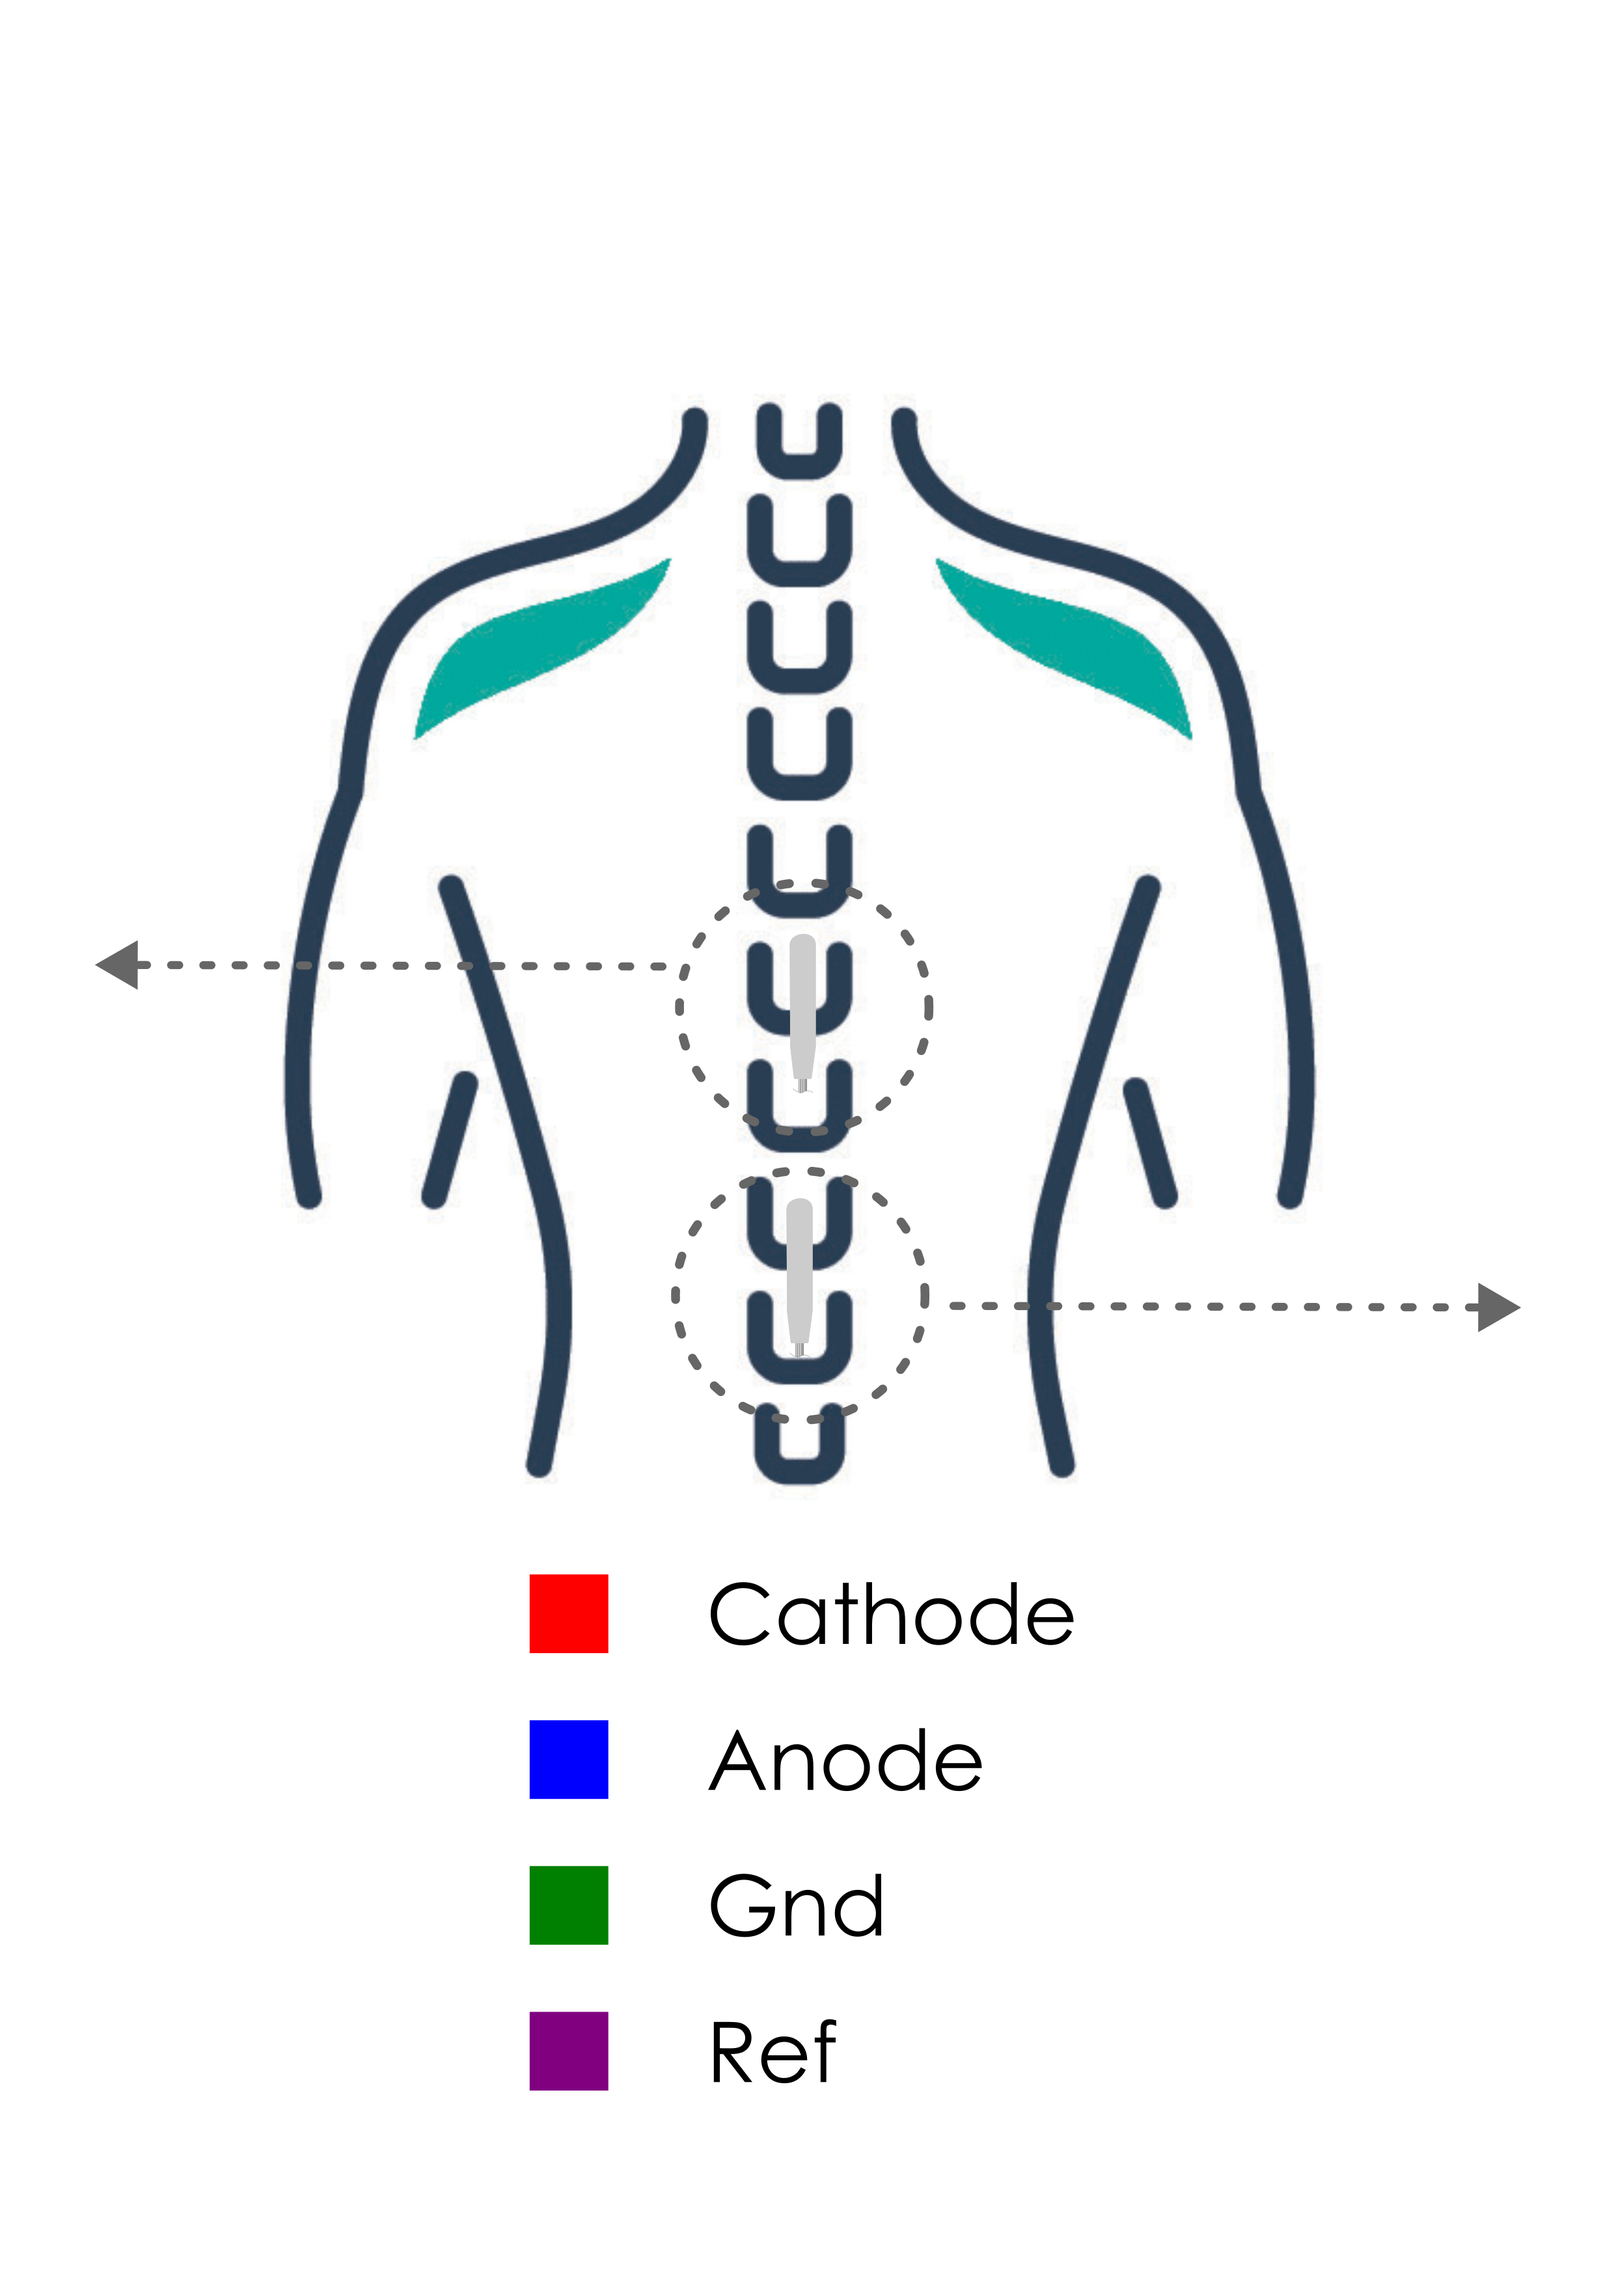
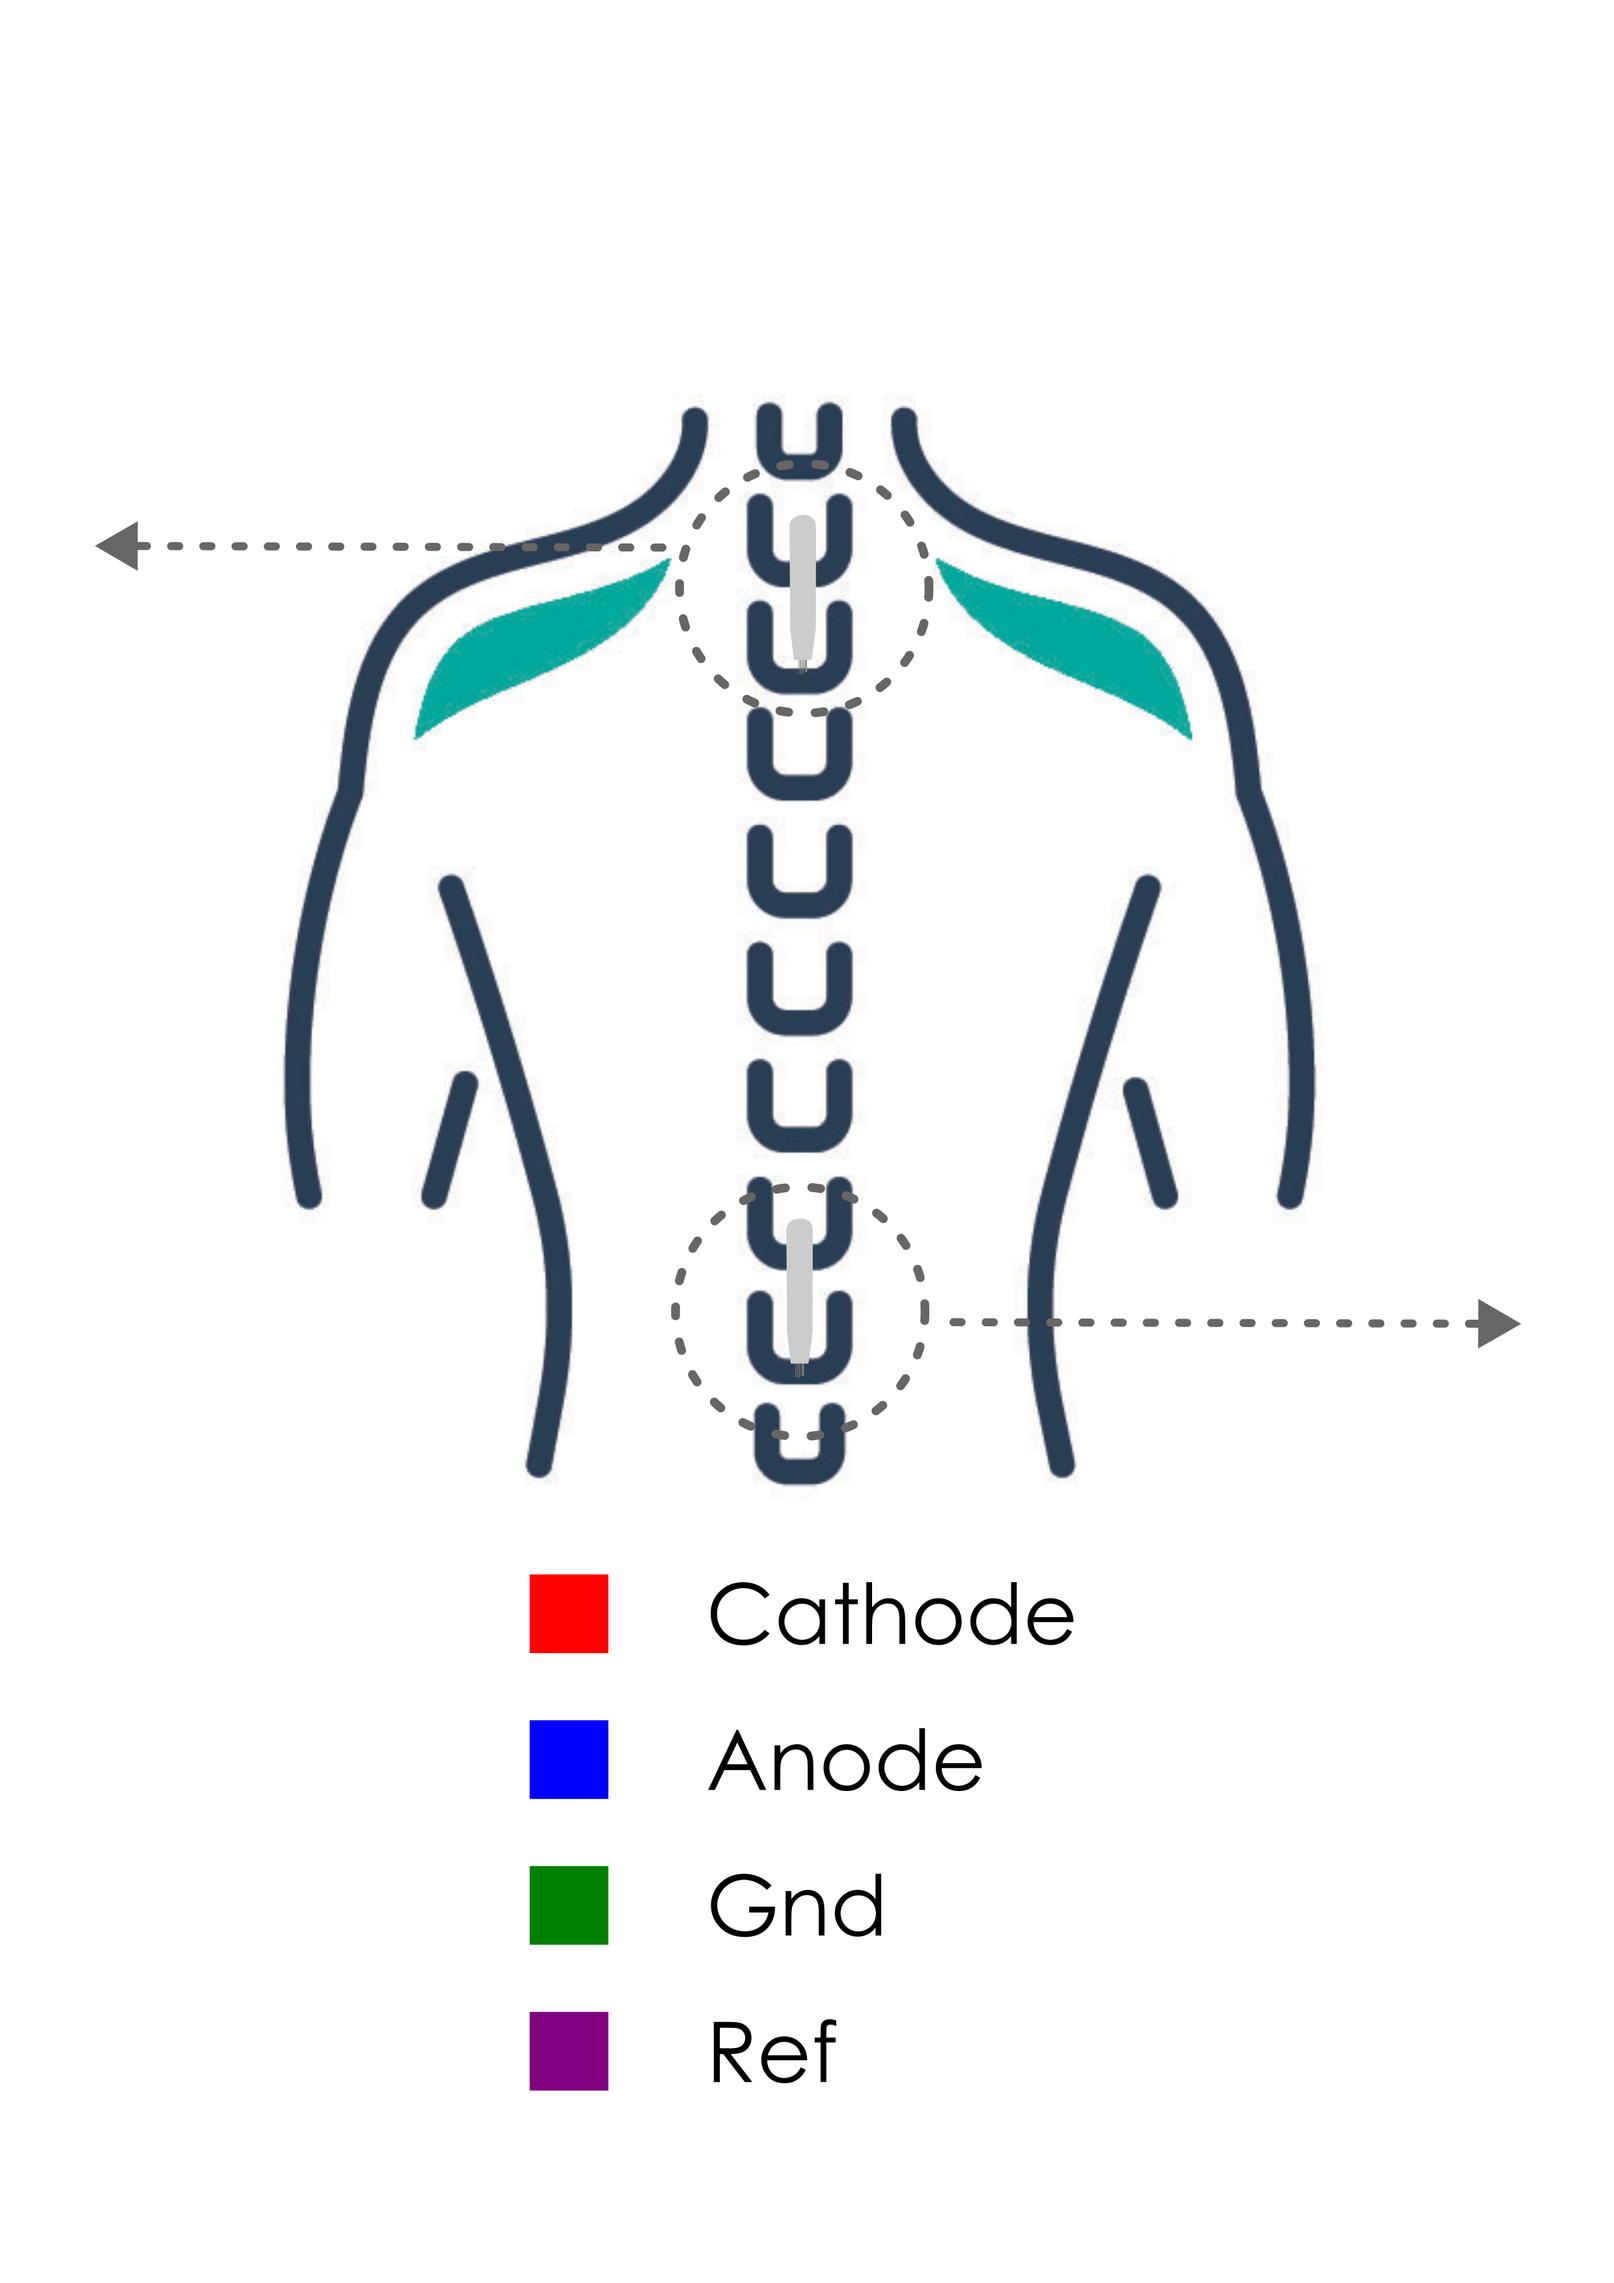
exported conda environment, merged my codebase with the logger

diff --git a/ISI_Dashboard_Dash/app.py b/ISI_Dashboard_Dash/app.py
@@ -76,8 +76,8 @@ app = DashProxy(external_stylesheets=[dbc.themes.BOOTSTRAP]) #does this need to 
 
 app.layout = dbc.Container([
     # WebSocket connection
-    #WebSocket(id="ws", url="ws://192.168.42.150:7890"),
-    WebSocket(id="ws", url="ws://127.0.0.1:7890"),
+    WebSocket(id="ws", url="ws://192.168.42.1:7890"),
+    # WebSocket(id="ws", url="ws://127.0.0.1:7890"),
     
     # Data stores
     dcc.Store(id='soh_json'),
@@ -95,8 +95,8 @@ app.layout = dbc.Container([
         # Left column - Caudal Array
         dbc.Col([
             dcc.Graph(
-                figure=CaudalArray.fig,
-                id='Caudal_array',
+                figure=RostralArray.fig,
+                id='Rostral_array',
                 style={'height':'100%','width': '100%'}
                 # style={'height': '650px', 'width': '100%'}
             )
@@ -122,8 +122,8 @@ app.layout = dbc.Container([
         # Right column - Rostral Array
         dbc.Col([
             dcc.Graph(
-                figure=RostralArray.fig,
-                id='Rostral_array',
+                figure=CaudalArray.fig,
+                id='Caudal_array',
                 style={'height':'100%','width': '100%'}
                 # style={'height': '650px', 'width': '100%'}
             )
@@ -222,10 +222,10 @@ def parseMessage(e):
     ed = json.loads(e['data'])
 
     if ed['msg_type'] == "soh_json":
-        out[1] = ed['msg']
+        out[1] = json.loads(ed['msg'])
     
     elif ed['msg_type'] == "stim_ack_json":
-        out[2] = ed['msg']
+        out[2] = json.loads(ed['msg'])
 
     #log.parseMessage(out)
     
@@ -254,8 +254,8 @@ def updateElectrodeArrays(stim,soh):
     
     # repackage pins
     Pins = {}
-    Pins['Gnd']       = soh['Gnd']
-    Pins['Ref']       = soh['Ref']
+    Pins['Gnd']       = soh['gnd']
+    Pins['Ref']       = soh['ref']
     Pins['elecCath']  = utils.dictCollect(stim,'elecCath')
     Pins['elecAno']    = utils.dictCollect(stim,'elecAno')
 
@@ -573,4 +573,5 @@ def update_graph(n):
 # app.run_server(debug=False, use_reloader=False) 
 
 if __name__ == '__main__':
-    app.run_server(debug=True)  # This enables hot reloading
+    # app.run_server(debug=True)  # This enables hot reloading
+    app.run_server(host='0.0.0.0', port=8050)

diff --git a/ISI_Dashboard_Dash/customComponents.py b/ISI_Dashboard_Dash/customComponents.py
@@ -389,7 +389,7 @@ class StimGroup():
                 ),
                 marker_color=df['color'],
                 mode='markers+text',
-                marker={'size': 40}
+                marker={'size': 40,'symbol':'square'}
             ))
 
         # annotate amplitude, freq and phase for SG
